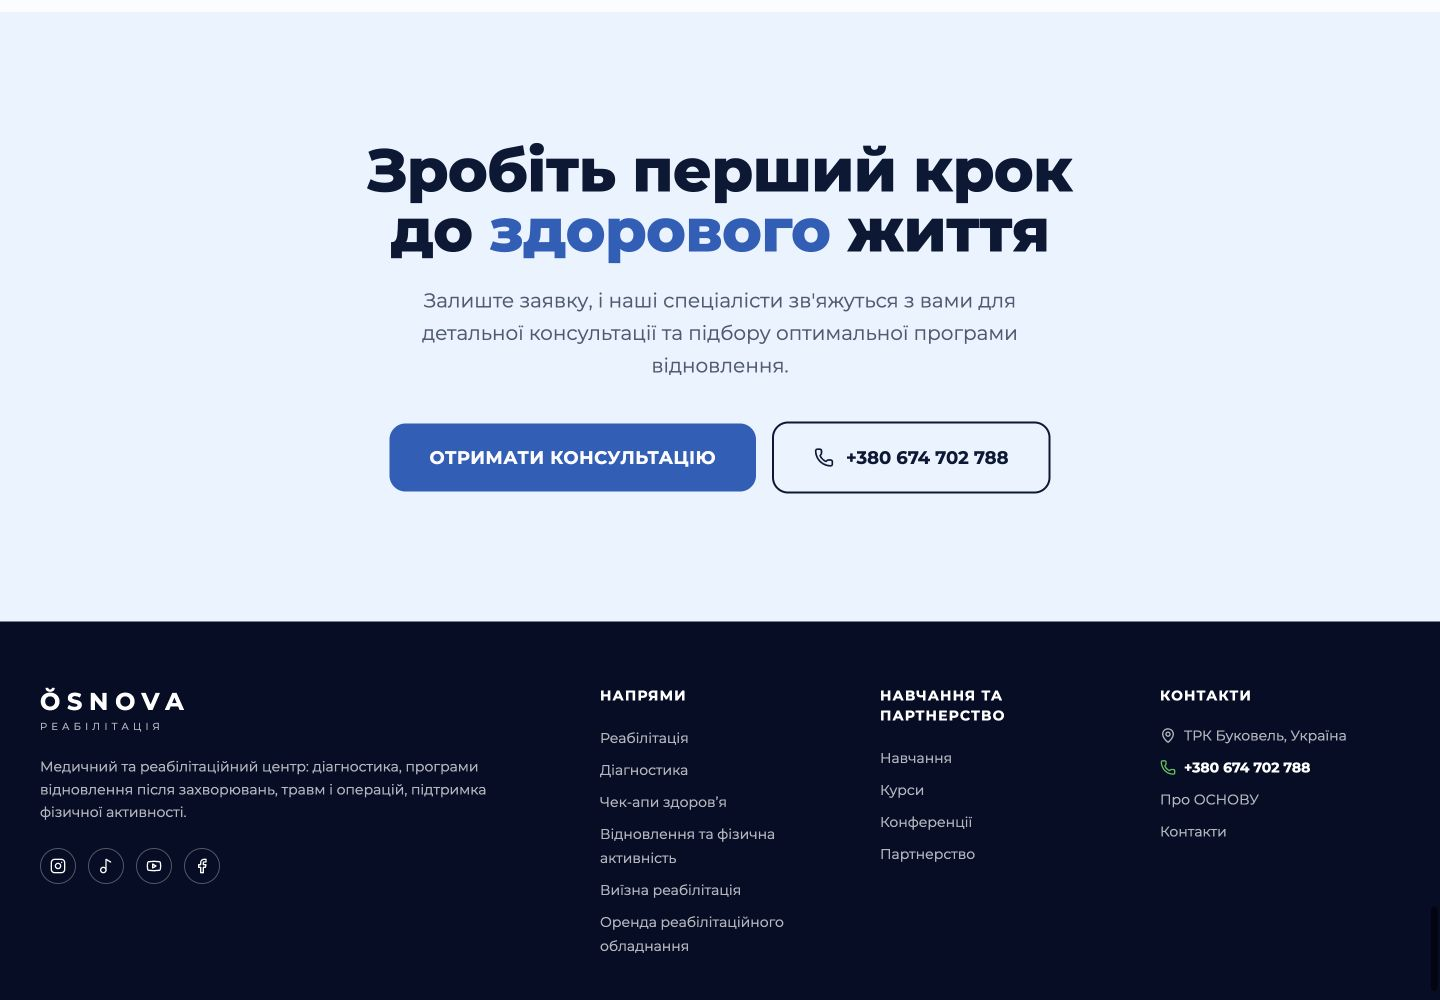
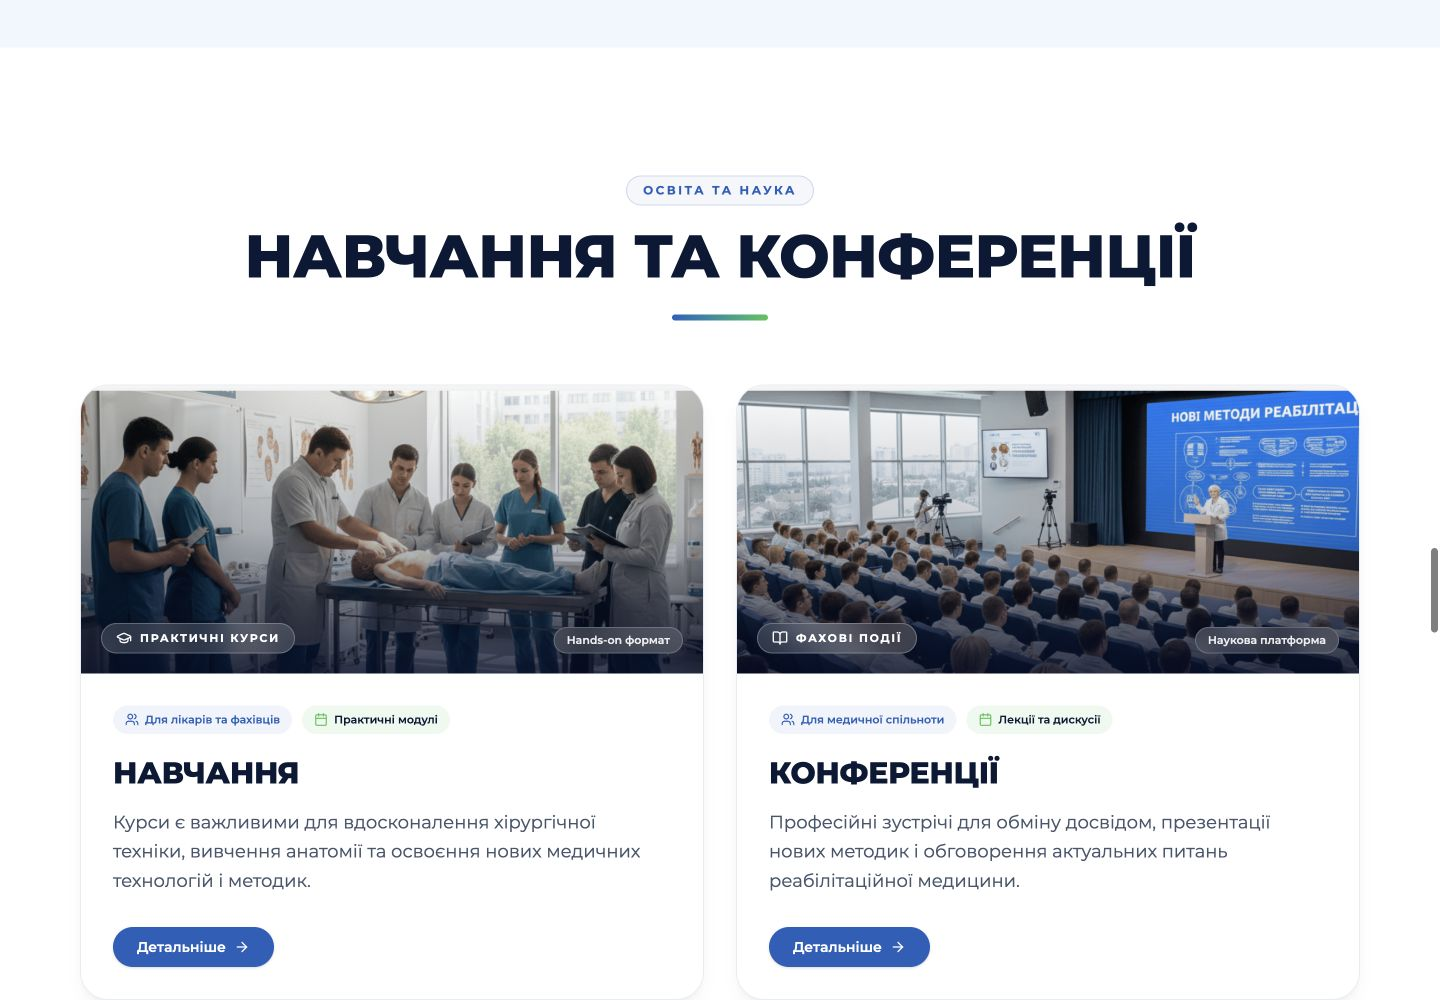
v10

diff --git a/src/routes/index.tsx b/src/routes/index.tsx
@@ -327,6 +327,13 @@ const PARTNERS = [
   },
 ];
 
+const PARTNERS_PER_SLIDE = 3;
+const PARTNER_GROUPS = Array.from(
+  { length: Math.ceil(PARTNERS.length / PARTNERS_PER_SLIDE) },
+  (_, index) =>
+    PARTNERS.slice(index * PARTNERS_PER_SLIDE, index * PARTNERS_PER_SLIDE + PARTNERS_PER_SLIDE),
+);
+
 // Співпраця
 const COOPERATION_ITEMS = [
   {
@@ -487,28 +494,30 @@ function DirectionCard({ direction }: { direction: (typeof DIRECTIONS)[number] }
 
 function PartnerCard({ partner }: { partner: (typeof PARTNERS)[number] }) {
   return (
-    <article className="group flex h-full min-h-[310px] flex-col rounded-[24px] border border-slate-200/80 bg-white p-7 shadow-md transition-all duration-300 hover:-translate-y-1.5 hover:border-primary/35 hover:shadow-xl">
-      <div className="flex h-32 items-center justify-center rounded-2xl bg-slate-50 p-5 ring-1 ring-slate-100 transition-colors duration-300 group-hover:bg-white">
+    <article className="group flex h-full min-h-[360px] flex-col rounded-[28px] border border-slate-200/80 bg-white p-8 text-center shadow-md transition-all duration-300 hover:-translate-y-1.5 hover:border-primary/35 hover:shadow-xl">
+      <div className="flex h-40 items-center justify-center rounded-[22px] bg-slate-50 p-6 ring-1 ring-slate-100 transition-colors duration-300 group-hover:bg-white">
         <img
           src={partner.logo}
           alt={partner.name}
           loading="lazy"
-          className="max-h-24 w-full object-contain"
+          className="max-h-28 w-full object-contain"
         />
       </div>
 
-      <div className="mt-6 flex flex-1 flex-col">
+      <div className="mt-7 flex flex-1 flex-col items-center">
         <span className="mb-3 text-[11px] font-bold uppercase tracking-[0.18em] text-primary">
           {partner.role}
         </span>
-        <h3 className="text-lg font-extrabold leading-snug text-navy md:text-xl">{partner.name}</h3>
+        <h3 className="max-w-sm text-xl font-extrabold leading-snug text-navy md:text-2xl">
+          {partner.name}
+        </h3>
       </div>
 
       <a
         href={partner.href}
         target="_blank"
         rel="noreferrer"
-        className="mt-7 inline-flex w-fit items-center gap-2 rounded-full bg-primary px-5 py-2.5 text-sm font-semibold text-white shadow-sm transition-all duration-300 hover:scale-105 hover:bg-primary/90 hover:shadow-md"
+        className="mx-auto mt-7 inline-flex items-center gap-2 rounded-full bg-primary px-6 py-2.5 text-sm font-semibold text-white shadow-sm transition-all duration-300 hover:scale-105 hover:bg-primary/90 hover:shadow-md"
         aria-label={`Детальніше про ${partner.name}`}
       >
         Детальніше <ArrowRight className="size-4 transition-transform group-hover:translate-x-1" />
@@ -586,6 +595,9 @@ function Index() {
   const [cooperationApi, setCooperationApi] = React.useState<CarouselApi>();
   const [currentCooperationSlide, setCurrentCooperationSlide] = React.useState(0);
   const [cooperationSlideCount, setCooperationSlideCount] = React.useState(0);
+  const [partnersApi, setPartnersApi] = React.useState<CarouselApi>();
+  const [currentPartnersSlide, setCurrentPartnersSlide] = React.useState(0);
+  const [partnersSlideCount, setPartnersSlideCount] = React.useState(0);
 
   React.useEffect(() => {
     if (!heroApi) return;
@@ -659,24 +671,42 @@ function Index() {
     };
   }, [cooperationApi]);
 
+  React.useEffect(() => {
+    if (!partnersApi) return;
+
+    const updateState = () => {
+      setPartnersSlideCount(partnersApi.scrollSnapList().length);
+      setCurrentPartnersSlide(partnersApi.selectedScrollSnap());
+    };
+
+    updateState();
+    partnersApi.on("select", updateState);
+    partnersApi.on("reInit", updateState);
+
+    return () => {
+      partnersApi.off("select", updateState);
+      partnersApi.off("reInit", updateState);
+    };
+  }, [partnersApi]);
+
   return (
     <div className="min-h-screen bg-background font-sans text-foreground selection:bg-primary/20">
       <SiteHeader />
 
       <main>
         {/* 1. HERO CAROUSEL */}
-        <section className="relative h-[500px] md:h-[560px] lg:h-[600px] w-full overflow-hidden bg-navy-deep">
+        <section className="relative h-[500px] w-screen max-w-none overflow-hidden bg-navy-deep md:h-[560px] lg:h-[600px]">
           <Carousel
             setApi={setHeroApi}
             plugins={[Autoplay({ delay: 6000, stopOnInteraction: true })]}
             opts={{ loop: true, watchDrag: false }}
             className="size-full"
           >
-            <CarouselContent className="ml-0 h-full">
+            <CarouselContent className="!ml-0 h-full w-full">
               {HERO_SLIDES.map((slide, index) => (
                 <CarouselItem
                   key={index}
-                  className="relative h-[500px] md:h-[560px] lg:h-[600px] w-full basis-full pl-0"
+                  className="relative h-[500px] min-w-full basis-full !pl-0 md:h-[560px] lg:h-[600px]"
                 >
                   <div className="absolute inset-0 size-full">
                     <img
@@ -880,7 +910,7 @@ function Index() {
         </section>
 
         {/* 4. МЕТОДИ РЕАБІЛІТАЦІЇ ТА ЛІКУВАННЯ (Слайдером в 1 строчку) */}
-        <section className="bg-white py-24 md:py-32 overflow-hidden">
+        <section className="bg-white pt-24 pb-12 md:pt-32 md:pb-16 overflow-hidden">
           <div className="mx-auto max-w-[1600px] px-6 lg:px-10">
             <SectionHeader centered subtitle="МЕТОДИКИ" title="МЕТОДИ РЕАБІЛІТАЦІЇ ТА ЛІКУВАННЯ" />
 
@@ -961,7 +991,7 @@ function Index() {
         </section>
 
         {/* 5. НАШІ ПЕРЕВАГИ (10 карт) */}
-        <section className="relative py-24 md:py-32 overflow-hidden bg-background">
+        <section className="relative pt-12 pb-24 md:pt-16 md:pb-32 overflow-hidden bg-background">
           <div className="mx-auto max-w-[1600px] px-6 lg:px-10">
             <SectionHeader centered subtitle="ПЕРЕВАГИ" title="НАШІ ПЕРЕВАГИ" />
 
@@ -994,24 +1024,52 @@ function Index() {
         </section>
 
         {/* 6. НАШІ ПАРТНЕРИ */}
-        <section className="bg-secondary/40 py-20">
+        <section className="overflow-hidden bg-secondary/40 py-20 md:py-24">
           <div className="mx-auto max-w-[1600px] px-6 lg:px-10">
             <SectionHeader centered subtitle="ПАРТНЕРСТВО" title="НАШІ ПАРТНЕРИ" />
 
-            <div className="grid gap-6 sm:grid-cols-2 lg:grid-cols-3 xl:grid-cols-6 mt-10">
-              {PARTNERS.map((partner, idx) => (
-                <div
-                  key={idx}
-                  className="flex flex-col items-center justify-center rounded-2xl border border-border/60 bg-card p-6 text-center shadow-sm backdrop-blur-sm transition-all hover:border-primary/40 hover:shadow-md"
-                >
-                  <Building2 className="mb-3 size-8 text-primary/80" />
-                  <h4 className="text-xs font-bold text-navy leading-tight">{partner.name}</h4>
-                  <span className="mt-2 text-[10px] uppercase font-semibold text-primary tracking-wider">
-                    {partner.role}
-                  </span>
+            <Carousel
+              setApi={setPartnersApi}
+              plugins={[Autoplay({ delay: 5200, stopOnInteraction: true })]}
+              opts={{ align: "start", loop: true }}
+              className="mt-12 w-full"
+            >
+              <CarouselContent className="-ml-5">
+                {PARTNER_GROUPS.map((group, index) => (
+                  <CarouselItem key={index} className="basis-full pl-5">
+                    <div className="grid gap-6 md:grid-cols-3">
+                      {group.map((partner) => (
+                        <PartnerCard key={partner.name} partner={partner} />
+                      ))}
+                    </div>
+                  </CarouselItem>
+                ))}
+              </CarouselContent>
+
+              <div className="mt-10 flex flex-col items-center gap-6">
+                {partnersSlideCount > 0 && (
+                  <div className="flex items-center justify-center gap-2.5">
+                    {Array.from({ length: partnersSlideCount }).map((_, index) => (
+                      <button
+                        key={index}
+                        onClick={() => partnersApi?.scrollTo(index)}
+                        className={`h-2.5 rounded-full transition-all duration-300 ${
+                          currentPartnersSlide === index
+                            ? "w-8 bg-primary shadow-sm"
+                            : "w-2.5 bg-slate-300 hover:bg-slate-400"
+                        }`}
+                        aria-label={`Перейти до блоку партнерів ${index + 1}`}
+                      />
+                    ))}
+                  </div>
+                )}
+
+                <div className="flex items-center justify-center gap-3">
+                  <CarouselPrevious className="static size-11 translate-y-0 border-slate-200 bg-white text-navy shadow-sm hover:border-primary hover:bg-primary hover:text-white" />
+                  <CarouselNext className="static size-11 translate-y-0 border-slate-200 bg-white text-navy shadow-sm hover:border-primary hover:bg-primary hover:text-white" />
                 </div>
-              ))}
-            </div>
+              </div>
+            </Carousel>
           </div>
         </section>
 
@@ -1039,15 +1097,15 @@ function Index() {
               opts={{ align: "start", loop: true, slidesToScroll: 1 }}
               className="mt-12 w-full"
             >
-              <CarouselContent className="-ml-4 md:-ml-5">
+              <CarouselContent className="-ml-4 items-stretch md:-ml-5">
                 {COOPERATION_ITEMS.map((item, idx) => (
                   <CarouselItem
                     key={idx}
-                    className="basis-[88%] pl-4 sm:basis-[56%] md:basis-[48%] md:pl-5 lg:basis-1/3"
+                    className="flex basis-[88%] pl-4 sm:basis-[56%] md:basis-[48%] md:pl-5 lg:basis-1/3"
                   >
                     <AppLink
                       to={item.href}
-                      className="group relative flex min-h-[260px] flex-col justify-between rounded-[24px] border border-slate-200/90 bg-white p-7 shadow-sm transition-all duration-300 hover:-translate-y-1.5 hover:border-primary/40 hover:shadow-xl md:min-h-[280px] md:p-8 lg:min-h-[300px] xl:min-h-[280px]"
+                      className="group relative flex h-full min-h-[260px] w-full flex-col justify-between rounded-[24px] border border-slate-200/90 bg-white p-7 shadow-sm transition-all duration-300 hover:-translate-y-1.5 hover:border-primary/40 hover:shadow-xl md:min-h-[280px] md:p-8 lg:min-h-[300px] xl:min-h-[280px]"
                     >
                       <div>
                         <div className="mb-7 flex size-14 items-center justify-center rounded-2xl bg-primary/10 text-primary transition-colors group-hover:bg-primary group-hover:text-white">

diff --git a/src/components/site-header.tsx b/src/components/site-header.tsx
@@ -17,6 +17,13 @@ import {
 import { cn } from "@/lib/utils";
 import { siteTree, CONTACTS } from "@/data/site-tree";
 import type { SiteNode } from "@/data/types";
+import {
+  Select,
+  SelectContent,
+  SelectItem,
+  SelectTrigger,
+  SelectValue,
+} from "@/components/ui/select";
 
 const services = siteTree.find((n) => n.id === "services")!;
 const rehab = services.children!.find((n) => n.id === "rehab")!;
@@ -43,7 +50,41 @@ export const HEADER_NAV: NavNodeItem[] = [
 ];
 
 const SOCIALS = [Instagram, Music2, Youtube, Facebook];
-const LANGS = ["УКР", "RU", "EN"];
+const LANGS = [
+  { value: "uk", label: "УКР" },
+  { value: "ru", label: "RU" },
+  { value: "en", label: "EN" },
+];
+
+function LanguageSelect({ className }: { className?: string }) {
+  return (
+    <Select defaultValue="uk">
+      <SelectTrigger
+        aria-label="Вибір мови"
+        className={cn(
+          "h-9 w-[86px] rounded-md border-background/40 bg-transparent px-3 text-xs font-bold text-background shadow-none hover:bg-background/10 focus:ring-background/35 [&>svg]:text-background [&>svg]:opacity-80",
+          className,
+        )}
+      >
+        <SelectValue />
+      </SelectTrigger>
+      <SelectContent
+        align="end"
+        className="min-w-[86px] border-border/40 bg-navy-deep text-background"
+      >
+        {LANGS.map((lang) => (
+          <SelectItem
+            key={lang.value}
+            value={lang.value}
+            className="cursor-pointer text-xs font-semibold text-background focus:bg-primary/25 focus:text-white"
+          >
+            {lang.label}
+          </SelectItem>
+        ))}
+      </SelectContent>
+    </Select>
+  );
+}
 
 function DesktopNavItem({ item }: { item: NavNodeItem }) {
   const [isOpen, setIsOpen] = React.useState(false);
@@ -106,7 +147,7 @@ function DesktopNavItem({ item }: { item: NavNodeItem }) {
                       onClick={() => setIsOpen(false)}
                       className={cn(
                         "flex items-center justify-between gap-3 px-3.5 py-2.5 text-xs font-semibold rounded-lg transition-colors text-background/90 hover:text-white hover:bg-primary/25",
-                        isHovered && "bg-primary/25 text-white font-bold"
+                        isHovered && "bg-primary/25 text-white font-bold",
                       )}
                     >
                       <span className="truncate">{child.title}</span>
@@ -201,7 +242,10 @@ function MobileNavItem({ item, onClose }: { item: NavNodeItem; onClose: () => vo
                       className="p-1 text-navy/60"
                     >
                       <ChevronDown
-                        className={cn("size-3.5 transition-transform", isChildExpanded && "rotate-180")}
+                        className={cn(
+                          "size-3.5 transition-transform",
+                          isChildExpanded && "rotate-180",
+                        )}
                       />
                     </button>
                   )}
@@ -244,7 +288,9 @@ export function SiteHeader() {
       <div className="bg-navy-deep">
         <div className="mx-auto flex max-w-[1600px] items-center justify-between gap-3 px-4 py-3.5 sm:px-6 lg:px-10">
           <AppLink to="/" className="flex flex-col leading-none text-background shrink-0">
-            <span className="text-xl sm:text-2xl font-bold tracking-[0.22em] sm:tracking-[0.28em]">ŎSNOVA</span>
+            <span className="text-xl sm:text-2xl font-bold tracking-[0.22em] sm:tracking-[0.28em]">
+              ŎSNOVA
+            </span>
             <span className="mt-0.5 sm:mt-1 text-[9px] sm:text-[10px] tracking-[0.35em] sm:tracking-[0.42em] text-background/70">
               РЕАБІЛІТАЦІЯ
             </span>
@@ -284,13 +330,7 @@ export function SiteHeader() {
             >
               <Search className="size-4" />
             </AppLink>
-            <div className="hidden items-center gap-2 text-sm font-semibold text-background lg:flex">
-              {LANGS.map((l, i) => (
-                <span key={l} className={cn(i === 0 ? "text-background" : "text-background/50")}>
-                  {l}
-                </span>
-              ))}
-            </div>
+            <LanguageSelect className="hidden lg:flex" />
             <button
               type="button"
               aria-label={menuOpen ? "Закрити меню" : "Відкрити меню"}
@@ -318,7 +358,7 @@ export function SiteHeader() {
             {HEADER_NAV.map((item) => (
               <MobileNavItem key={item.label} item={item} onClose={() => setMenuOpen(false)} />
             ))}
-            
+
             <li className="pt-4 pb-2 space-y-3 border-t border-border/60 mt-2">
               <a
                 href={CONTACTS.phoneHref}

diff --git a/design-qa.md b/design-qa.md
@@ -1,0 +1,51 @@
+**Findings**
+- No actionable P0/P1/P2 issues found.
+
+**Source Visual Truth**
+- Path: `/var/folders/lr/vmcchsrn0239jvl0djtc29980000gn/T/TemporaryItems/NSIRD_screencaptureui_AcueDb/Screenshot 2026-07-27 at 12.03.34.png`
+- Pixel dimensions: 2876 x 1356.
+- State: desktop section reference showing two education cards with image, title, description, and CTA requirement.
+
+**Implementation Evidence**
+- Local URL: `http://localhost:5173/`
+- Desktop screenshot: `/Users/dmytrolishchyna/Desktop/OSNOVA_WEB/design-qa-implementation-desktop.png`
+- Desktop viewport: 1440 x 1000 CSS px.
+- Mobile screenshot: `/Users/dmytrolishchyna/Desktop/OSNOVA_WEB/design-qa-implementation-mobile.png`
+- Mobile viewport: 390 x 900 CSS px.
+- Density normalization: source and implementation were compared as browser-rendered visual evidence; no pixel-level density normalization was required because this task adapts the supplied structure into the current site design rather than reproducing the old screenshot 1:1.
+- Console errors checked: none.
+
+**Full-View Comparison Evidence**
+- The source screenshot establishes the content pattern: two cards, each with a medical education/conference image, heading, description, and "Детальніше" action.
+- The implementation preserves that content pattern and adapts it into the current OSNOVA design system: Montserrat typography, navy headings, primary blue CTA, soft card shadows, rounded cards, gradient section divider, image overlays, and pill metadata.
+- Desktop layout keeps two equal cards with aligned image heights, content rhythm, and CTA placement.
+- Mobile layout stacks cards cleanly; badges wrap without overflow, headings remain readable, and CTAs remain visible and tappable.
+
+**Focused Region Comparison**
+- Focused regions checked: card imagery, image-overlay badges, metadata pills, titles, descriptions, and CTA buttons.
+- No focused screenshot crop was needed because the full desktop and mobile evidence clearly shows the complete component states and text rendering.
+
+**Required Fidelity Surfaces**
+- Fonts and typography: implementation uses the site's Montserrat-based hierarchy; headings, body copy, and pill labels match the new page style and do not truncate.
+- Spacing and layout rhythm: card radius, padding, image heights, grid gap, and CTA spacing are consistent with neighboring cards and sections.
+- Colors and visual tokens: primary blue, navy text, brand-green accent, muted pill backgrounds, and white card surfaces map to existing tokens and visual language.
+- Image quality and asset fidelity: the two source photos were extracted as real raster assets and placed in the cards; crops remain sharp enough for the rendered card sizes.
+- Copy and content: titles, descriptions, education/conference semantics, and "Детальніше" CTA are present and readable in desktop and mobile states.
+
+**Open Questions**
+- None.
+
+**Implementation Checklist**
+- Added education-specific image assets from the supplied screenshot.
+- Connected those assets to `EDUCATION_CARDS`.
+- Added `EducationCard` with photo, heading, description, metadata pills, and CTA in the current site style.
+- Verified production build.
+- Verified desktop and mobile rendering in the Codex in-app browser.
+
+**Follow-up Polish**
+- [P3] Compress the two PNG assets to smaller JPEG/WebP files if page weight becomes a concern.
+
+**Comparison History**
+- First pass: no P0/P1/P2 issues found after desktop and mobile browser verification.
+
+final result: passed
